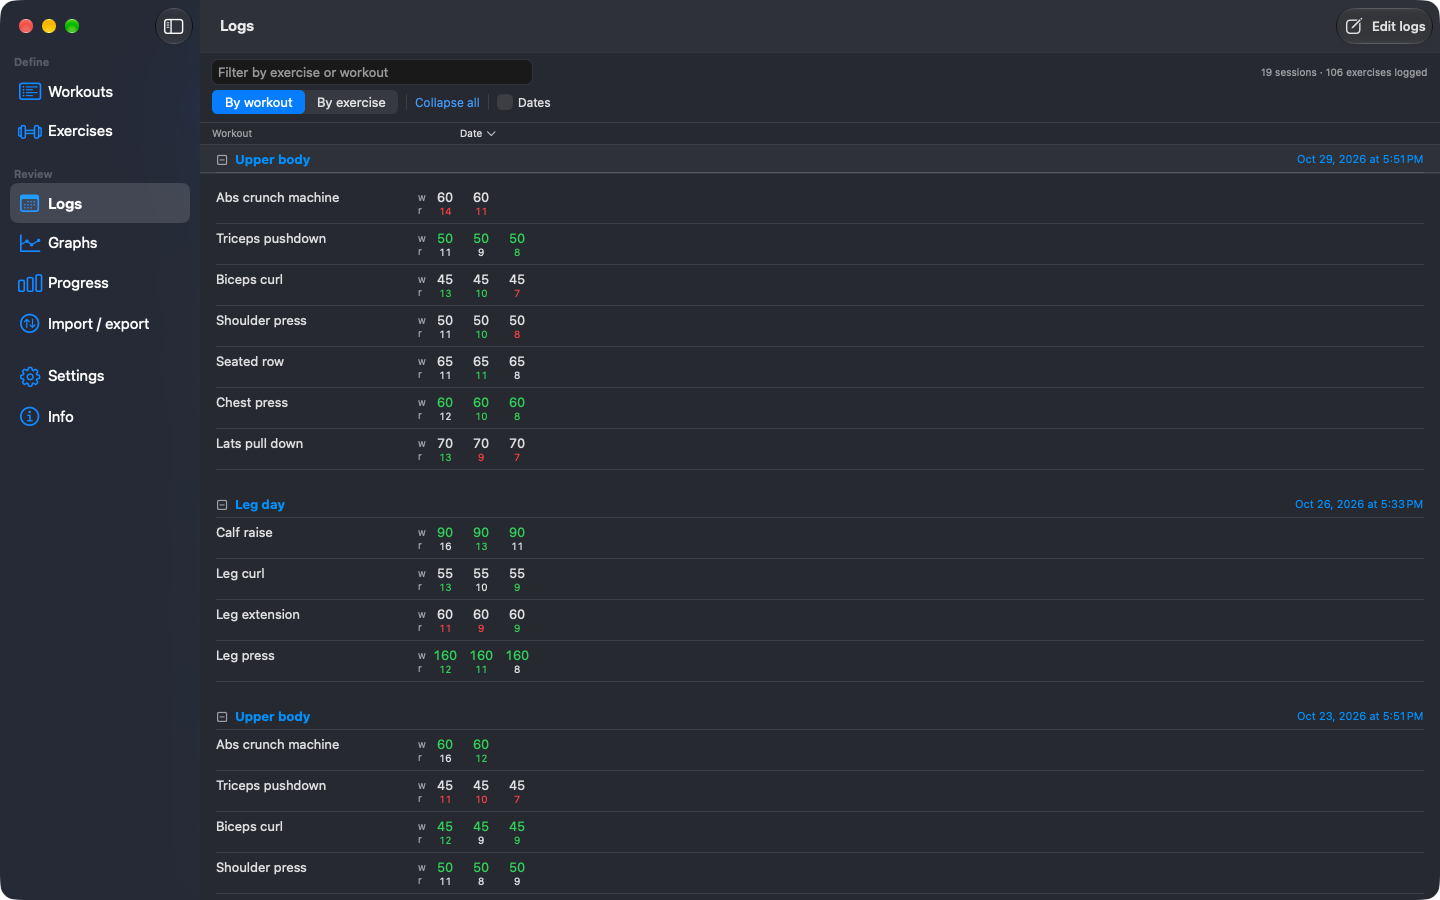
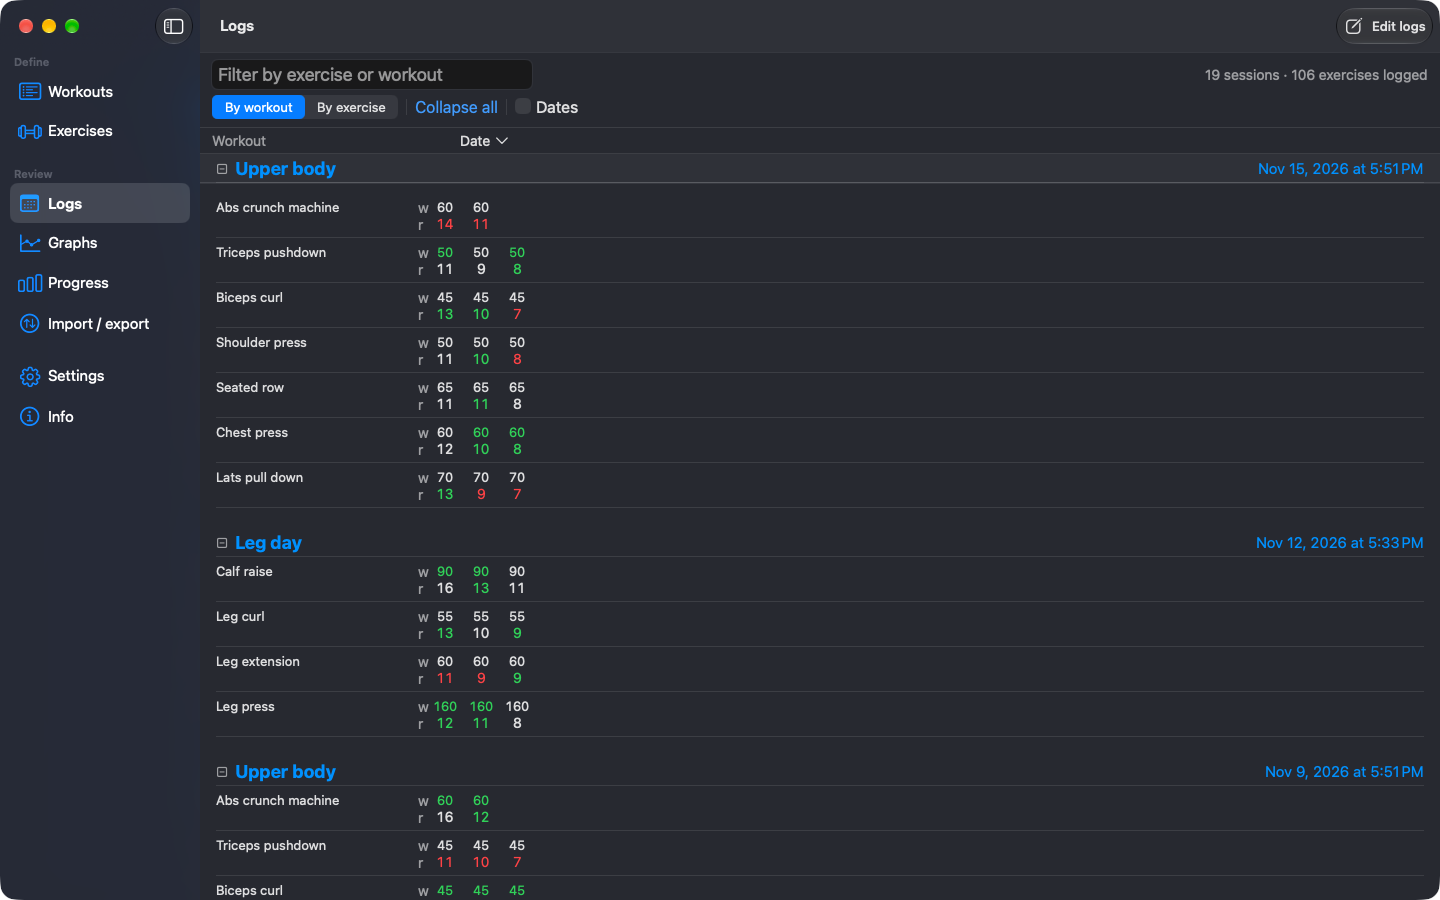
Build the Mac app before shooting it
The screenshot script searched DerivedData for any Debug SetsRepsWheels.app
and took the first one, so a run after an edit could photograph the previous
binary and say nothing about it. That is how an afternoon went on a layout bug
that had already been fixed: the only clue was two "different" screenshots
with the same checksum.

It now builds the scheme and asks the build settings where the app went, which
also removes the guess about DerivedData paths and the configuration's folder
name. NOBUILD=1 skips the build for a reshoot of something just built in
Xcode, and still uses the path the build settings give.

It also clears only the screens the run is about to shoot. Reshooting one
screen with SCREENS= used to delete the other seven.

diff --git a/ARCHITECTURE.md b/ARCHITECTURE.md
@@ -482,7 +482,7 @@ bug and rendering the view did.
 |---|---|
 | `tools/run-tests.sh` | the three unit test suites, and deletes the simulator clones Xcode leaves behind |
 | `tools/make-screenshots.sh` | App Store screenshots for iPhone and Watch |
-| `tools/make-mac-screenshots.sh` | the same for the Mac — needs Screen Recording for whatever runs it |
+| `tools/make-mac-screenshots.sh` | the same for the Mac — builds the app first, and needs Screen Recording for whatever runs it |
 | `tools/srw-window-id.swift` | asks the window server which window belongs to a process |
 | `tools/svg-to-bodydiagram.py` | turns the body artwork into `Shared/BodyDiagram.json` |
 | `tools/export-shared-data.py` | pulls the anonymous shared data people opt into |
@@ -493,6 +493,14 @@ The screenshot scripts launch the app with `-SRW…` flags (`-SRWDemo`,
 flag must be given a value — `NSUserDefaults` reads the launch arguments as
 pairs, and a bare flag swallows the next one. The header of
 `tools/make-mac-screenshots.sh` explains what that cost.
+
+The Mac one **builds the app it shoots**, and takes the path from the build
+settings rather than searching DerivedData. It used to shoot the first Debug
+app it could find, which meant a run after an edit could quietly photograph the
+previous binary — two "different" screenshots with the same checksum was the
+only clue. `NOBUILD=1` skips the build for a reshoot of something just built in
+Xcode. It also clears only the screens it is about to shoot, so `SCREENS=` for
+one screen no longer deletes the other seven.
 
 ## Building
 
